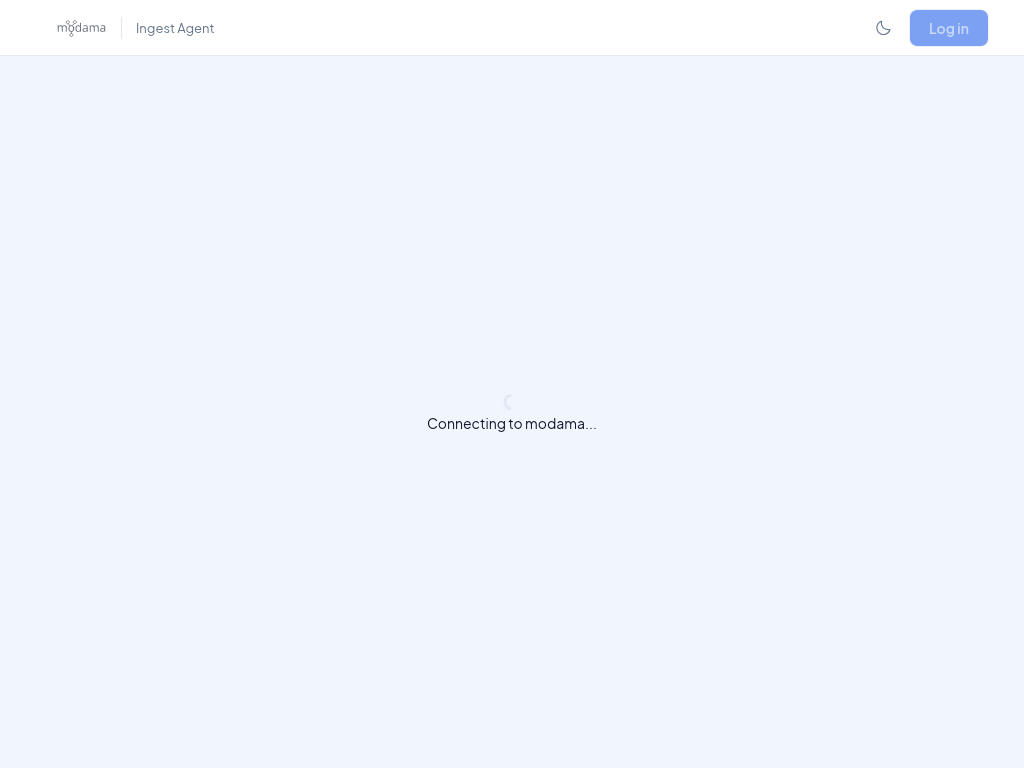
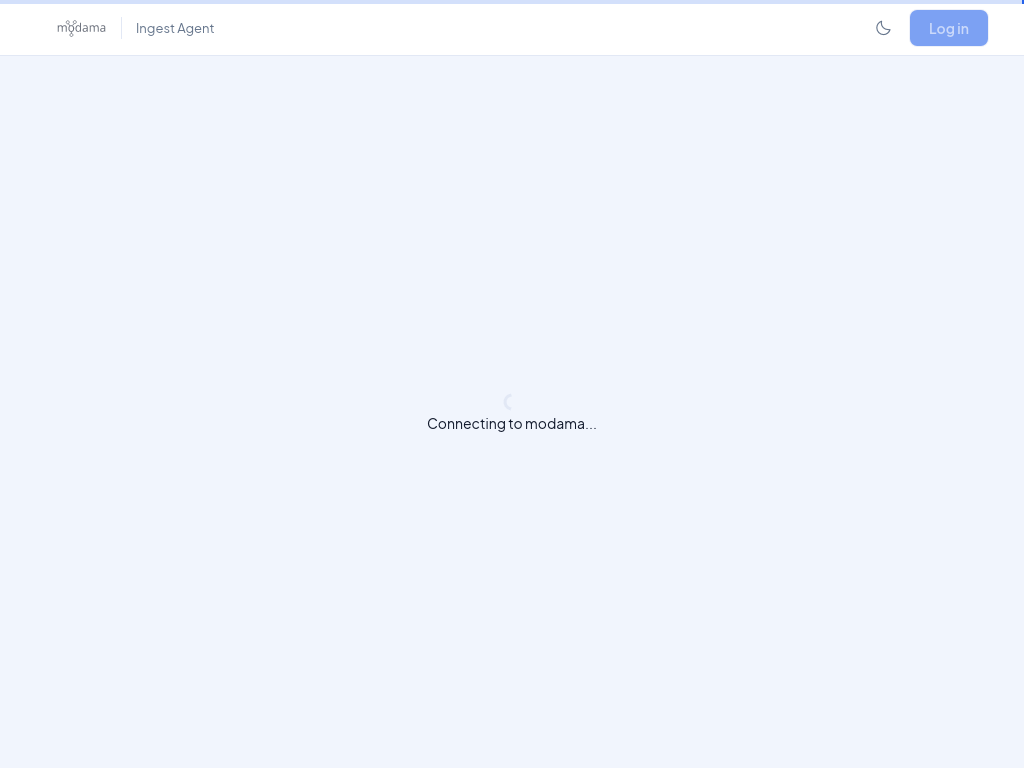
global loading bar

Changed region(s): [[0.0, 0.0, 1.0, 0.0312]]

diff --git a/modama-rs/modama-agent-gui/src/navigation_progress.rs b/modama-rs/modama-agent-gui/src/navigation_progress.rs
@@ -1,0 +1,143 @@
+use std::time::Duration;
+
+use eframe::egui::{self, emath::easing::cubic_in_out, Sense, WidgetInfo, WidgetType};
+
+use crate::styles;
+
+const SHOW_DELAY_SECONDS: f64 = 0.150;
+const SWEEP_SECONDS: f64 = 1.1;
+const SEGMENT_FRACTION: f32 = 1.0 / 3.0;
+
+#[derive(Clone, Copy, Debug, PartialEq)]
+enum ProgressStatus {
+    Hidden,
+    Delayed { remaining_seconds: f64 },
+    Visible { phase: f32 },
+}
+
+#[derive(Default)]
+pub(crate) struct NavigationProgress {
+    busy_since: Option<f64>,
+}
+
+impl NavigationProgress {
+    pub(crate) fn show(&mut self, ctx: &egui::Context, busy: bool) {
+        let now = ctx.input(|input| input.time);
+        let phase = match self.advance(now, busy) {
+            ProgressStatus::Hidden => return,
+            ProgressStatus::Delayed { remaining_seconds } => {
+                ctx.request_repaint_after(Duration::from_secs_f64(remaining_seconds));
+                return;
+            }
+            ProgressStatus::Visible { phase } => phase,
+        };
+
+        ctx.request_repaint();
+        let viewport = ctx.content_rect();
+        egui::Area::new(egui::Id::new("navigation-progress"))
+            .order(egui::Order::Tooltip)
+            .fixed_pos(viewport.left_top())
+            .interactable(false)
+            .show(ctx, |ui| {
+                let size = egui::vec2(
+                    viewport.width(),
+                    styles::components::navigation_progress::height::EGUI_POINTS,
+                );
+                let (track, response) = ui.allocate_exact_size(size, Sense::hover());
+                response.widget_info(|| {
+                    WidgetInfo::labeled(WidgetType::ProgressIndicator, true, "Loading")
+                });
+
+                let primary = styles::color::primary::VALUE.resolve(ui.visuals());
+                ui.painter()
+                    .rect_filled(track, 0.0, primary.gamma_multiply(0.20));
+                ui.painter().with_clip_rect(track).rect_filled(
+                    segment_rect(track, phase),
+                    0.0,
+                    primary,
+                );
+            });
+    }
+
+    fn advance(&mut self, now: f64, busy: bool) -> ProgressStatus {
+        if !busy {
+            self.busy_since = None;
+            return ProgressStatus::Hidden;
+        }
+
+        let busy_since = *self.busy_since.get_or_insert(now);
+        let elapsed = (now - busy_since).max(0.0);
+        if elapsed < SHOW_DELAY_SECONDS {
+            return ProgressStatus::Delayed {
+                remaining_seconds: SHOW_DELAY_SECONDS - elapsed,
+            };
+        }
+
+        let phase = ((elapsed - SHOW_DELAY_SECONDS) % SWEEP_SECONDS) / SWEEP_SECONDS;
+        ProgressStatus::Visible {
+            phase: phase as f32,
+        }
+    }
+}
+
+fn segment_rect(track: egui::Rect, phase: f32) -> egui::Rect {
+    let segment_width = track.width() * SEGMENT_FRACTION;
+    let eased_phase = cubic_in_out(phase.clamp(0.0, 1.0));
+    let left = egui::lerp((track.left() - segment_width)..=track.right(), eased_phase);
+    egui::Rect::from_min_size(
+        egui::pos2(left, track.top()),
+        egui::vec2(segment_width, track.height()),
+    )
+}
+
+#[cfg(test)]
+mod tests {
+    use super::*;
+
+    #[test]
+    fn progress_is_delayed_and_resets_immediately() {
+        let mut progress = NavigationProgress::default();
+
+        assert_eq!(
+            progress.advance(10.0, true),
+            ProgressStatus::Delayed {
+                remaining_seconds: SHOW_DELAY_SECONDS
+            }
+        );
+        assert!(matches!(
+            progress.advance(10.149, true),
+            ProgressStatus::Delayed { .. }
+        ));
+        assert!(matches!(
+            progress.advance(10.150, true),
+            ProgressStatus::Visible { .. }
+        ));
+        assert_eq!(progress.advance(10.151, false), ProgressStatus::Hidden);
+        assert_eq!(
+            progress.advance(20.0, true),
+            ProgressStatus::Delayed {
+                remaining_seconds: SHOW_DELAY_SECONDS
+            }
+        );
+    }
+
+    #[test]
+    fn animation_repeats_and_segment_geometry_stays_constant() {
+        let mut progress = NavigationProgress::default();
+        let _ = progress.advance(5.0, true);
+        let ProgressStatus::Visible { phase } =
+            progress.advance(5.0 + SHOW_DELAY_SECONDS + SWEEP_SECONDS, true)
+        else {
+            panic!("the progress bar should be visible");
+        };
+        assert!(phase.abs() <= f32::EPSILON);
+
+        let track = egui::Rect::from_min_size(egui::Pos2::ZERO, egui::vec2(300.0, 4.0));
+        let start = segment_rect(track, 0.0);
+        let end = segment_rect(track, 1.0);
+        assert_eq!(start.width(), 100.0);
+        assert_eq!(end.width(), 100.0);
+        assert_eq!(start.right(), track.left());
+        assert_eq!(end.left(), track.right());
+    }
+}

diff --git a/modama-rs/modama-agent-gui/tests/selection_visual.rs b/modama-rs/modama-agent-gui/tests/selection_visual.rs
@@ -167,10 +167,12 @@ fn project_selection_snapshots() {
         })
         .is_some());
     assert!(loading
-        .query_by_role(egui::accesskit::Role::ProgressIndicator)
+        .query_by_role_and_label(egui::accesskit::Role::ProgressIndicator, "Loading")
         .is_some());
     let progress = loading
-        .get_by_role(egui::accesskit::Role::ProgressIndicator)
+        .get_by(|node| {
+            node.role() == egui::accesskit::Role::ProgressIndicator && node.label().is_none()
+        })
         .rect();
     let loading_label = loading.get_by_label("Fetching projects…").rect();
     let loading_group = progress.union(loading_label);
@@ -1273,7 +1275,9 @@ fn session_loading_is_centered_in_the_list_area() {
     harness.run_steps(3);
 
     let progress = harness
-        .get_by_role(egui::accesskit::Role::ProgressIndicator)
+        .get_by(|node| {
+            node.role() == egui::accesskit::Role::ProgressIndicator && node.label().is_none()
+        })
         .rect();
     let label = harness.get_by_label("Fetching sessions…").rect();
     let group = progress.union(label);

diff --git a/modama-rs/modama-agent-gui/src/app.rs b/modama-rs/modama-agent-gui/src/app.rs
@@ -4,6 +4,7 @@ use std::sync::Arc;
 use crate::{
     actions::{Action, RetryAction, TaskFailure},
     components::toast::{ToastAction, ToastState},
+    navigation_progress::NavigationProgress,
     pages::{
         Page, PageConnecting, PageLogin, PageOverview, PageSelectCreateSession, PageSelectProject,
     },
@@ -18,6 +19,7 @@ pub struct AgentGuiApp {
     pub app_state: AgentAppState,
     pub toast: ToastState,
     top_bar: TopBar,
+    navigation_progress: NavigationProgress,
     service: Arc<dyn AgentService>,
 }
 
@@ -38,6 +40,7 @@ impl AgentGuiApp {
             app_state: AgentAppState::new(),
             toast: ToastState::default(),
             top_bar: TopBar::default(),
+            navigation_progress: NavigationProgress::default(),
             service,
         }
     }
@@ -249,6 +252,8 @@ impl eframe::App for AgentGuiApp {
                 ToastAction::Dismiss => self.toast.clear(),
             }
         }
+
+        self.navigation_progress.show(ui.ctx(), self.page.is_busy());
     }
 }
 

diff --git a/modama-rs/modama-agent-gui/tests/overview_visual.rs b/modama-rs/modama-agent-gui/tests/overview_visual.rs
@@ -143,6 +143,9 @@ fn overview_actions_are_mutually_exclusive() {
     let inactive = overview_harness(false, false);
     assert!(inactive.query_by_label("Create Session").is_some());
     assert!(inactive.query_by_label("Close Session").is_none());
+    assert!(inactive
+        .query_by_role_and_label(egui::accesskit::Role::ProgressIndicator, "Loading")
+        .is_none());
 }
 
 #[test]
@@ -382,6 +385,9 @@ fn connecting_snapshot() {
         .query_by(|node| {
             node.label().as_deref() == Some("go to Overview") && node.is_disabled()
         })
+        .is_some());
+    assert!(harness
+        .query_by_role_and_label(egui::accesskit::Role::ProgressIndicator, "Loading")
         .is_some());
     harness.snapshot("connecting");
     release.wait();

diff --git a/modama-rs/modama-agent-gui/src/lib.rs b/modama-rs/modama-agent-gui/src/lib.rs
@@ -6,6 +6,7 @@ pub mod components;
 pub mod config;
 #[cfg(feature = "guide-screenshots")]
 pub mod guide_screenshots;
+mod navigation_progress;
 pub mod pages;
 pub mod service;
 pub mod state;
@@ -34,6 +35,10 @@ mod style_tests {
         assert_eq!(styles::spacing::button_padding_x::EGUI_POINTS, 20.0);
         assert_eq!(styles::rounded::_2xl::EGUI_POINTS, 16.0);
         assert_eq!(styles::components::top_bar::height::EGUI_POINTS, 56.0);
+        assert_eq!(
+            styles::components::navigation_progress::height::EGUI_POINTS,
+            4.0
+        );
         assert_eq!(styles::components::app_shell::padding::EGUI_POINTS, 27.0);
     }
 

diff --git a/modama-rs/TODO.md b/modama-rs/TODO.md
@@ -31,4 +31,4 @@
 - [x] ensure important errors are logged (any of the errors that result in a "dismiss"/"retry" dialog for example)
 - [x] BUG: scrollbar color is not distinguishable from background
 - [x] extra binary for generating screnshots for the user documentation
-- [ ] port the busy indicator from the react UI - the lil spinner is too subtle IMHO
+- [x] port the busy indicator from the react UI - the lil spinner is too subtle IMHO

diff --git a/mgmtinterface-new/DESIGN.md b/mgmtinterface-new/DESIGN.md
@@ -125,6 +125,8 @@ components:
   top-bar:
     height: 56px
     padding: 28px
+  navigation-progress:
+    height: 4px
   top-bar-logo:
     height: 26px
   top-bar-brand-gap:
